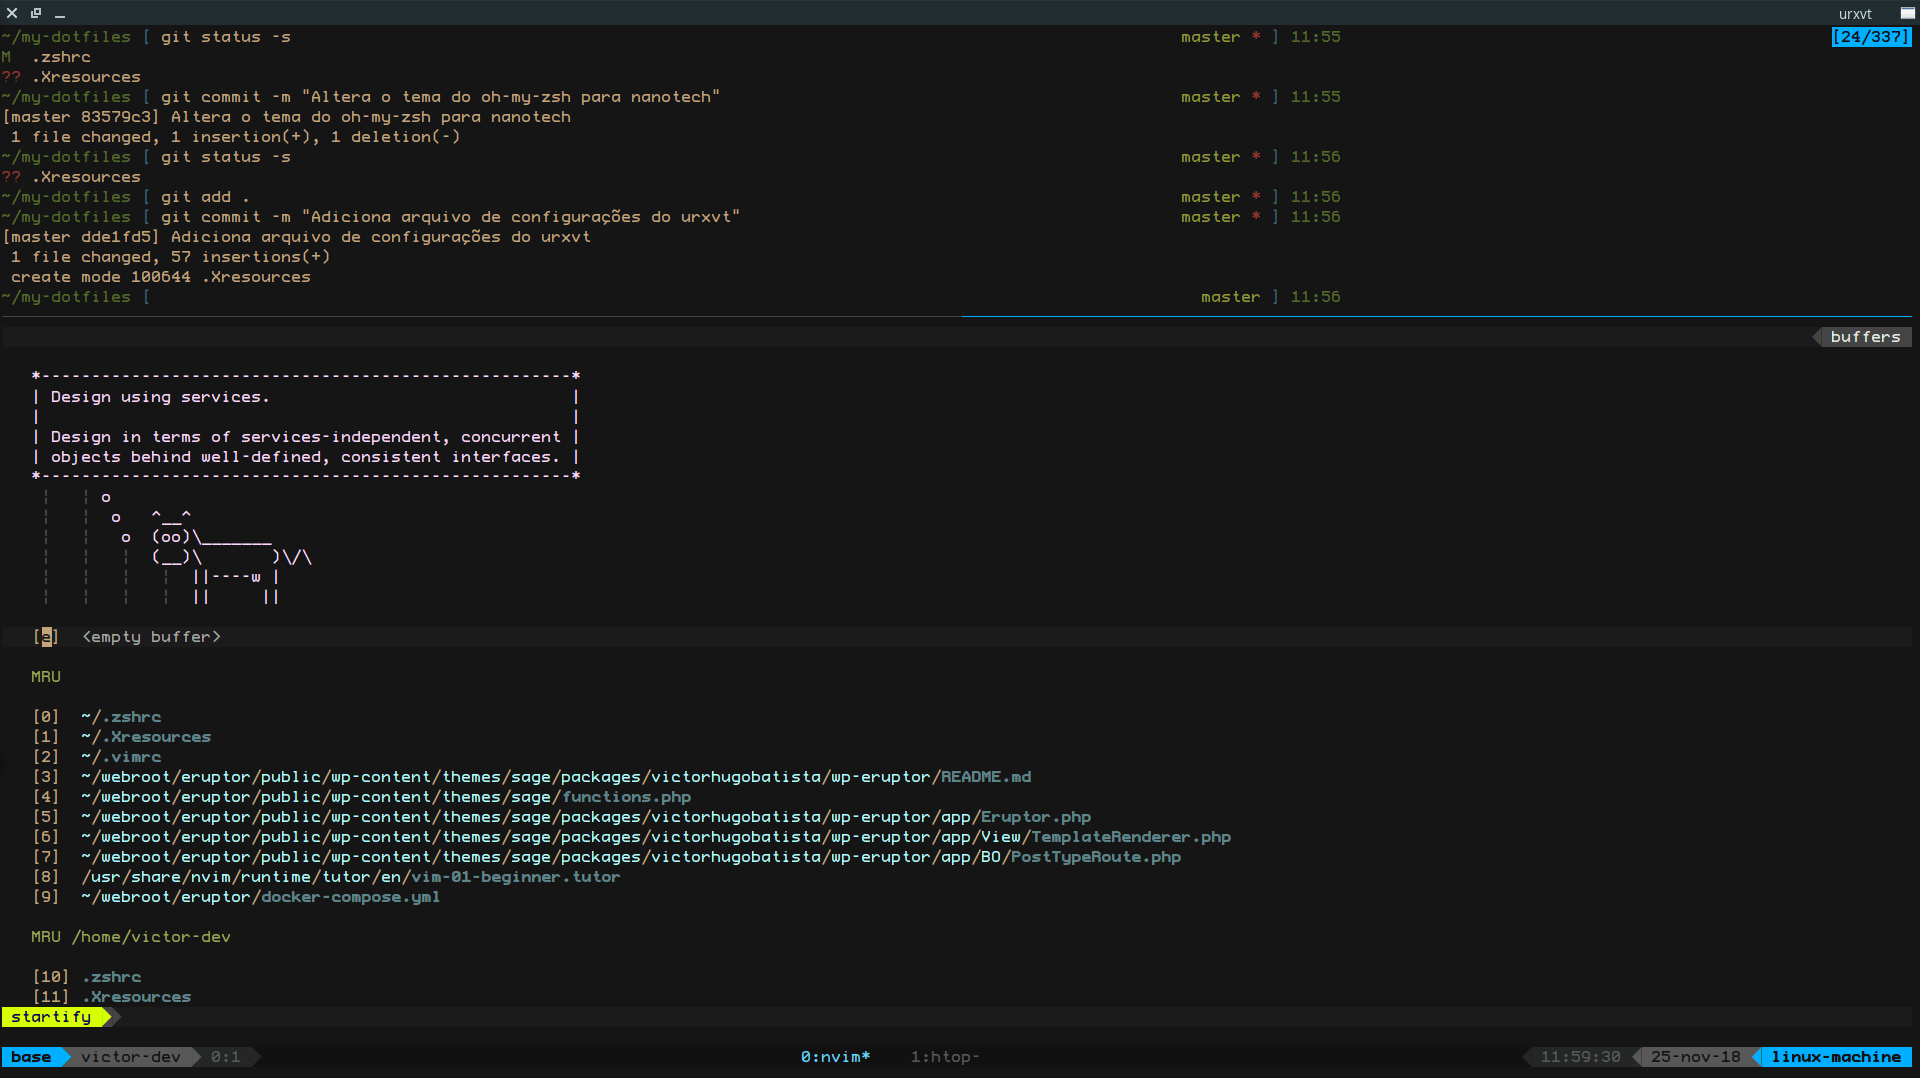
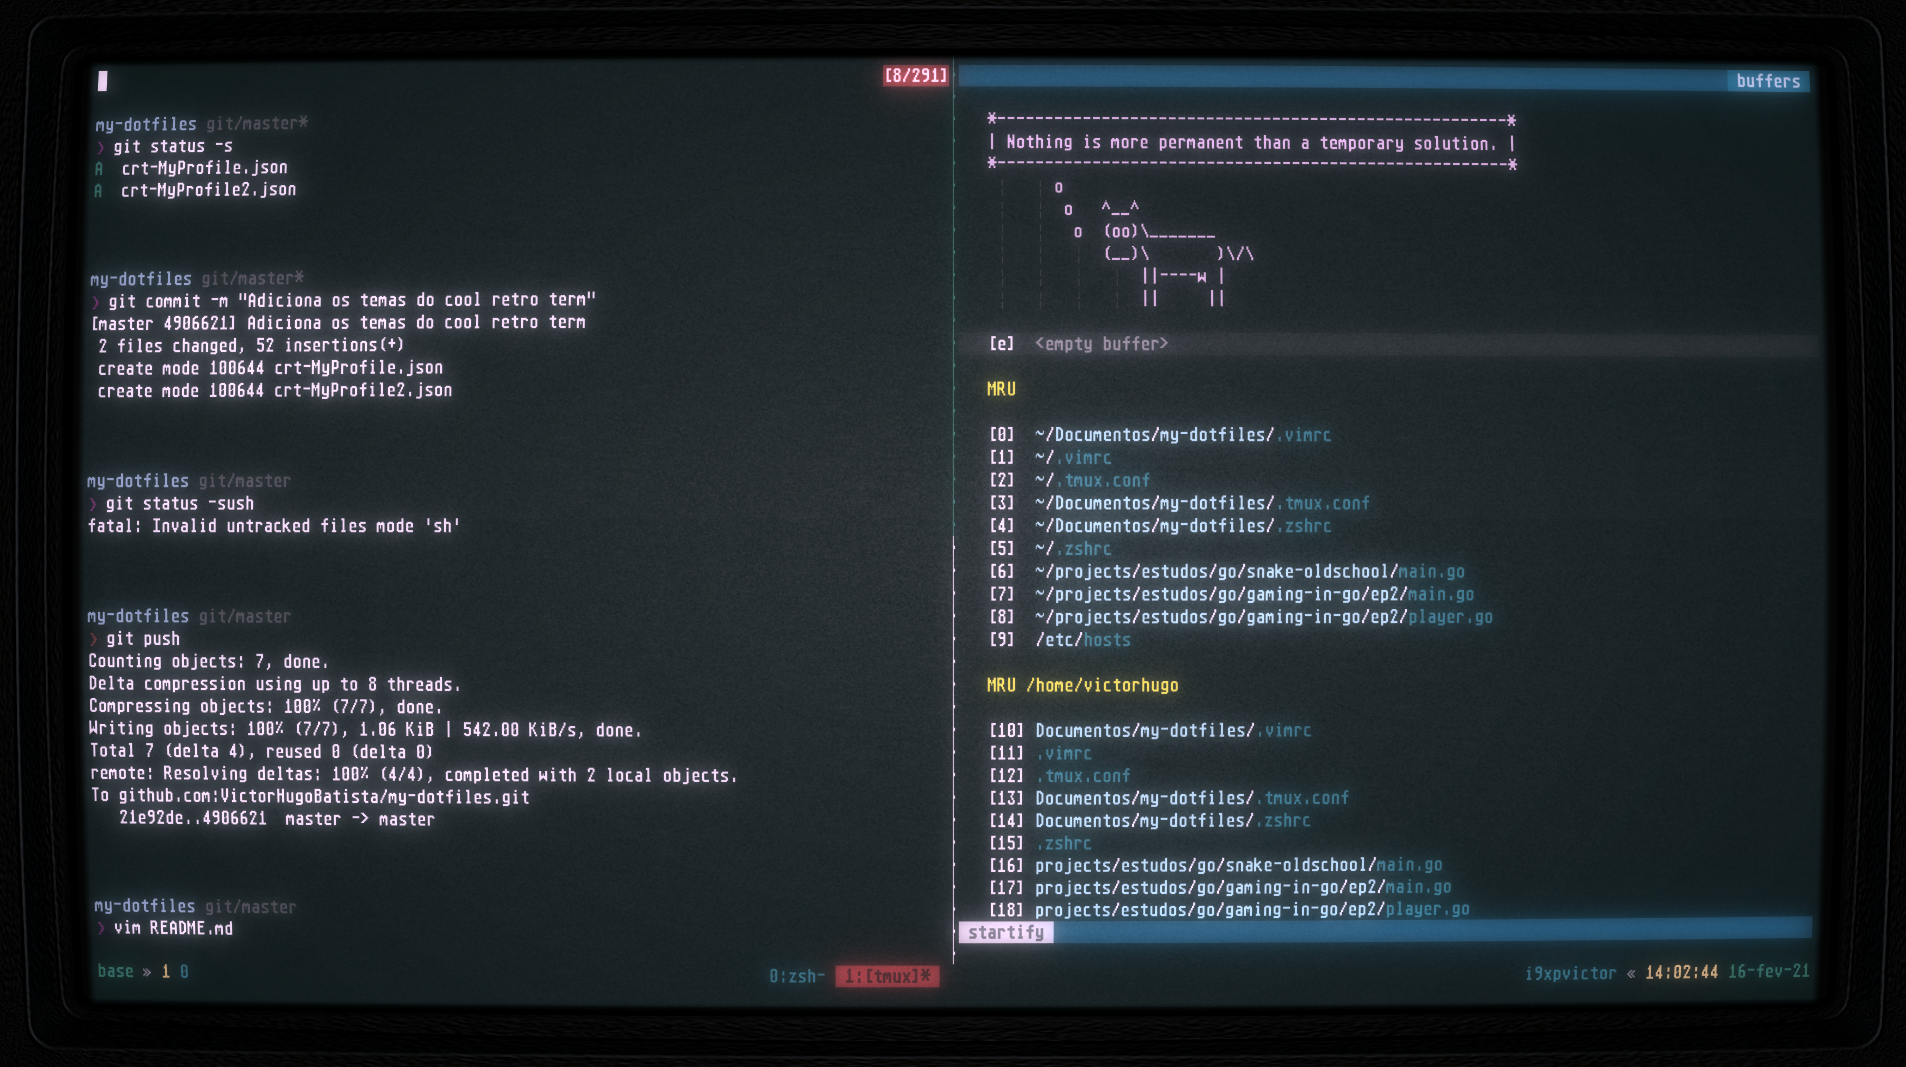
Atualiza o readme com o novo tema

diff --git a/README.md b/README.md
@@ -3,7 +3,7 @@
 ![screenshot](https://github.com/VictorHugoBatista/my-dotfiles/blob/master/screenshot.png)
 
 ## Instalar
-* Urxvt (https://wiki.archlinux.org/index.php/rxvt-unicode#Installation)
+* Urxvt (https://wiki.archlinux.org/index.php/rxvt-unicode#Installation) ou CRT (https://github.com/Swordfish90/cool-retro-term)
 * Oh My ZSH (https://github.com/robbyrussell/oh-my-zsh)
 * Tmux (sudo apt install tmux)
 * NVM (https://github.com/creationix/nvm)
